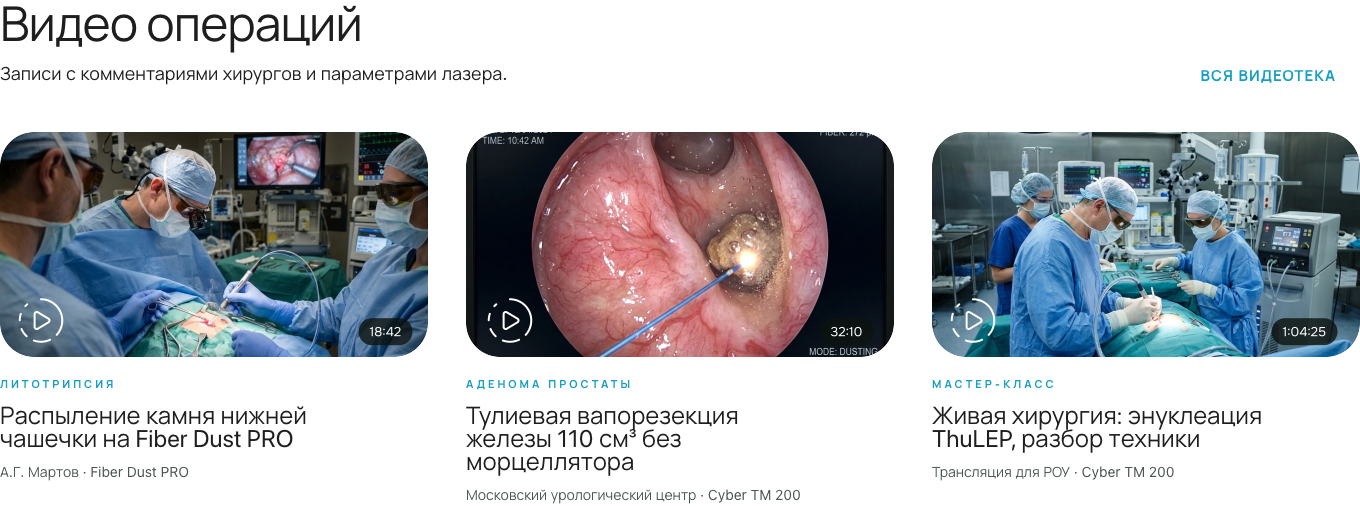
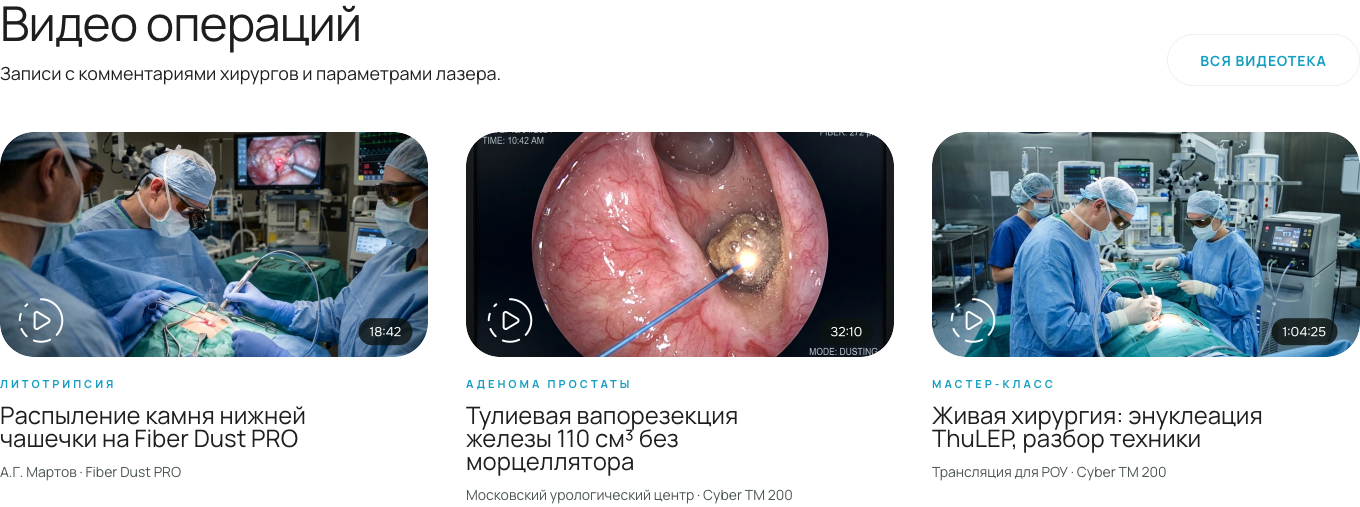
style(sec4): give the video link the same pill as the news button
The video section had a bare uppercase link while the news section uses a
white 52px pill. Both now share one rule, and the video header no longer
stops at 1336px so the two pills line up on the container edge at x=1400.

diff --git a/styles.css b/styles.css
@@ -1059,7 +1059,6 @@ img {
   display: flex;
   justify-content: space-between;
   align-items: flex-end;
-  width: 1336px;
   margin-bottom: 46px;
 }
 
@@ -1086,23 +1085,6 @@ img {
   line-height: 26px;
   color: #1e1e1e;
   margin: 0;
-}
-
-/* Link: plain 15px Bold text, UPPERCASE, 1px tracking — no pill */
-.videos-all-link {
-  font-family: var(--font-main);
-  font-size: 15px;
-  font-weight: 700;
-  line-height: 20px;
-  letter-spacing: 1px;
-  text-transform: uppercase;
-  color: #159ec1;
-  text-decoration: none;
-  transition: opacity 0.15s ease;
-}
-
-.videos-all-link:hover {
-  opacity: 0.8;
 }
 
 .videos-cards-grid {
@@ -1196,7 +1178,8 @@ img {
   margin: 0;
 }
 
-.news-all-btn {
+.news-all-btn,
+.videos-all-link {
   height: 52px;
   padding: 0 32px;
   border-radius: 9999px;
@@ -1213,7 +1196,8 @@ img {
   transition: background 0.15s ease;
 }
 
-.news-all-btn:hover {
+.news-all-btn:hover,
+.videos-all-link:hover {
   background: #f7faf9;
 }
 

diff --git a/index.html b/index.html
@@ -329,7 +329,7 @@
           <h2 class="videos-title">Видео операций</h2>
           <p class="videos-subtitle">Записи с комментариями хирургов и параметрами лазера.</p>
         </div>
-        <a href="#video" class="videos-all-link">Вся видеотека</a>
+        <a href="#video" class="videos-all-link">ВСЯ ВИДЕОТЕКА</a>
       </div>
 
       <div class="videos-cards-grid">

diff --git a/log-figma.md b/log-figma.md
@@ -66,7 +66,7 @@
 | Section Wrapper | `50:4032` (Frame 104) | 1360×507 | y5673 | — | — | header 86 + 46 gap + cards 375 |
 | Header row | `47:3761` (Frame 103) | 1336×86 | x40 | — | — | title block left, link right, bottom-aligned |
 | Title / subtitle | `47:3762` / `47:3763` | 502×46 / 502×26 | header | — | `#1e1e1e` | 48px Regular, lh 96%, ls −2%; subtitle 18px/26, gap 14 |
-| «Вся видеотека» | `47:3764` | 134×20 | x1241 | — | `#159ec1` | **plain text link**: 15px Bold, ls 1px, UPPERCASE, no pill/arrow |
+| «Вся видеотека» | `47:3764` | 134×20 | right edge 1400 | — | `#159ec1` | Figma draws a plain 15px Bold uppercase link; client asked for the news pill, so `.videos-all-link` shares `.news-all-btn` (52px, r9999, 1px `#eef2ef`, 14px Bold) |
 | Video card | `47:3765..` | 428×352 (375 for 3-line title) | gap 38 | — | — | thumb 225 + 19 gap + info (12 gaps) |
 | Thumb | `47:3766` | 428×225 | top | 34 | `assets/video-thumb-N.webp` | play ring + timecode are baked into the export |
 | Tag / title / author | `47:3779` etc. | — | info | — | tag `#149ec1`, rest `#1e1e1e` / `#4a5450` | tag 11px Bold ls 3 UPPER; title 24px Regular lh 96% max-w 360; author 14px/22.4 |
